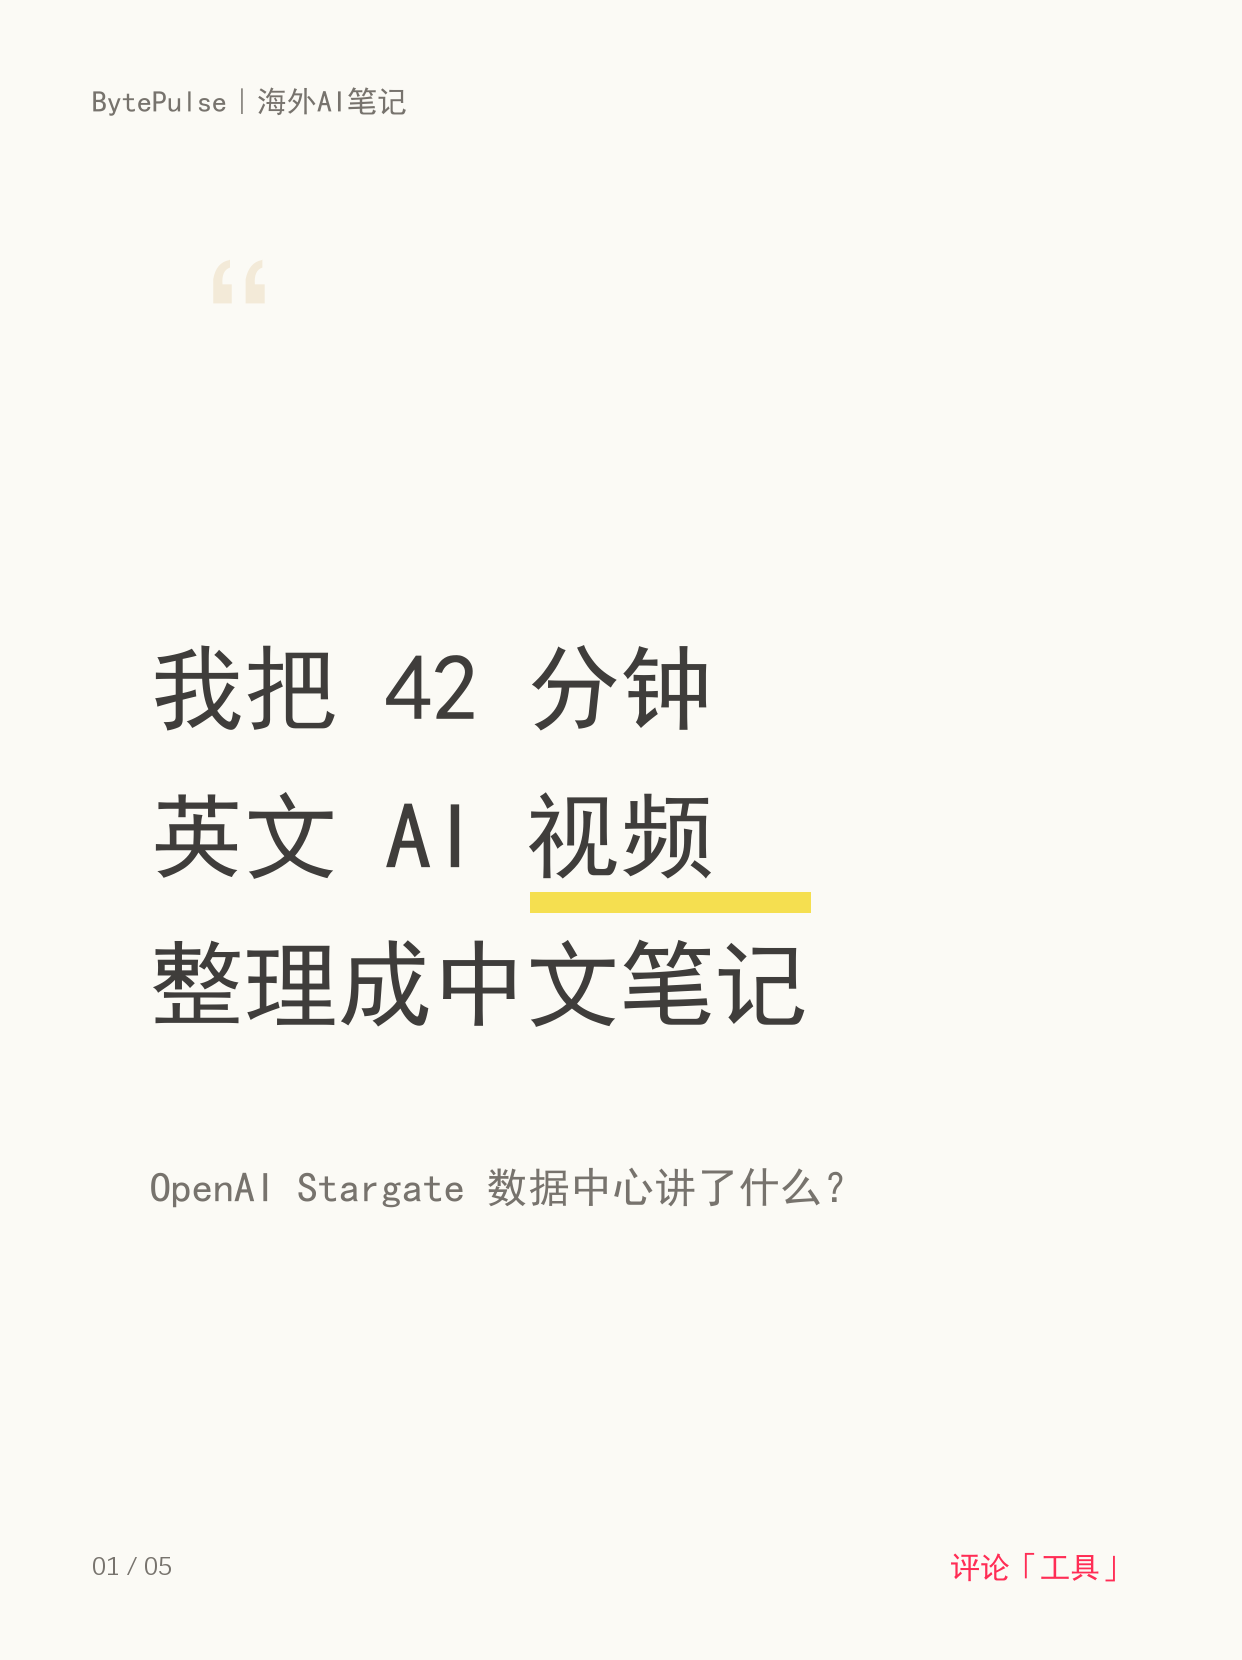
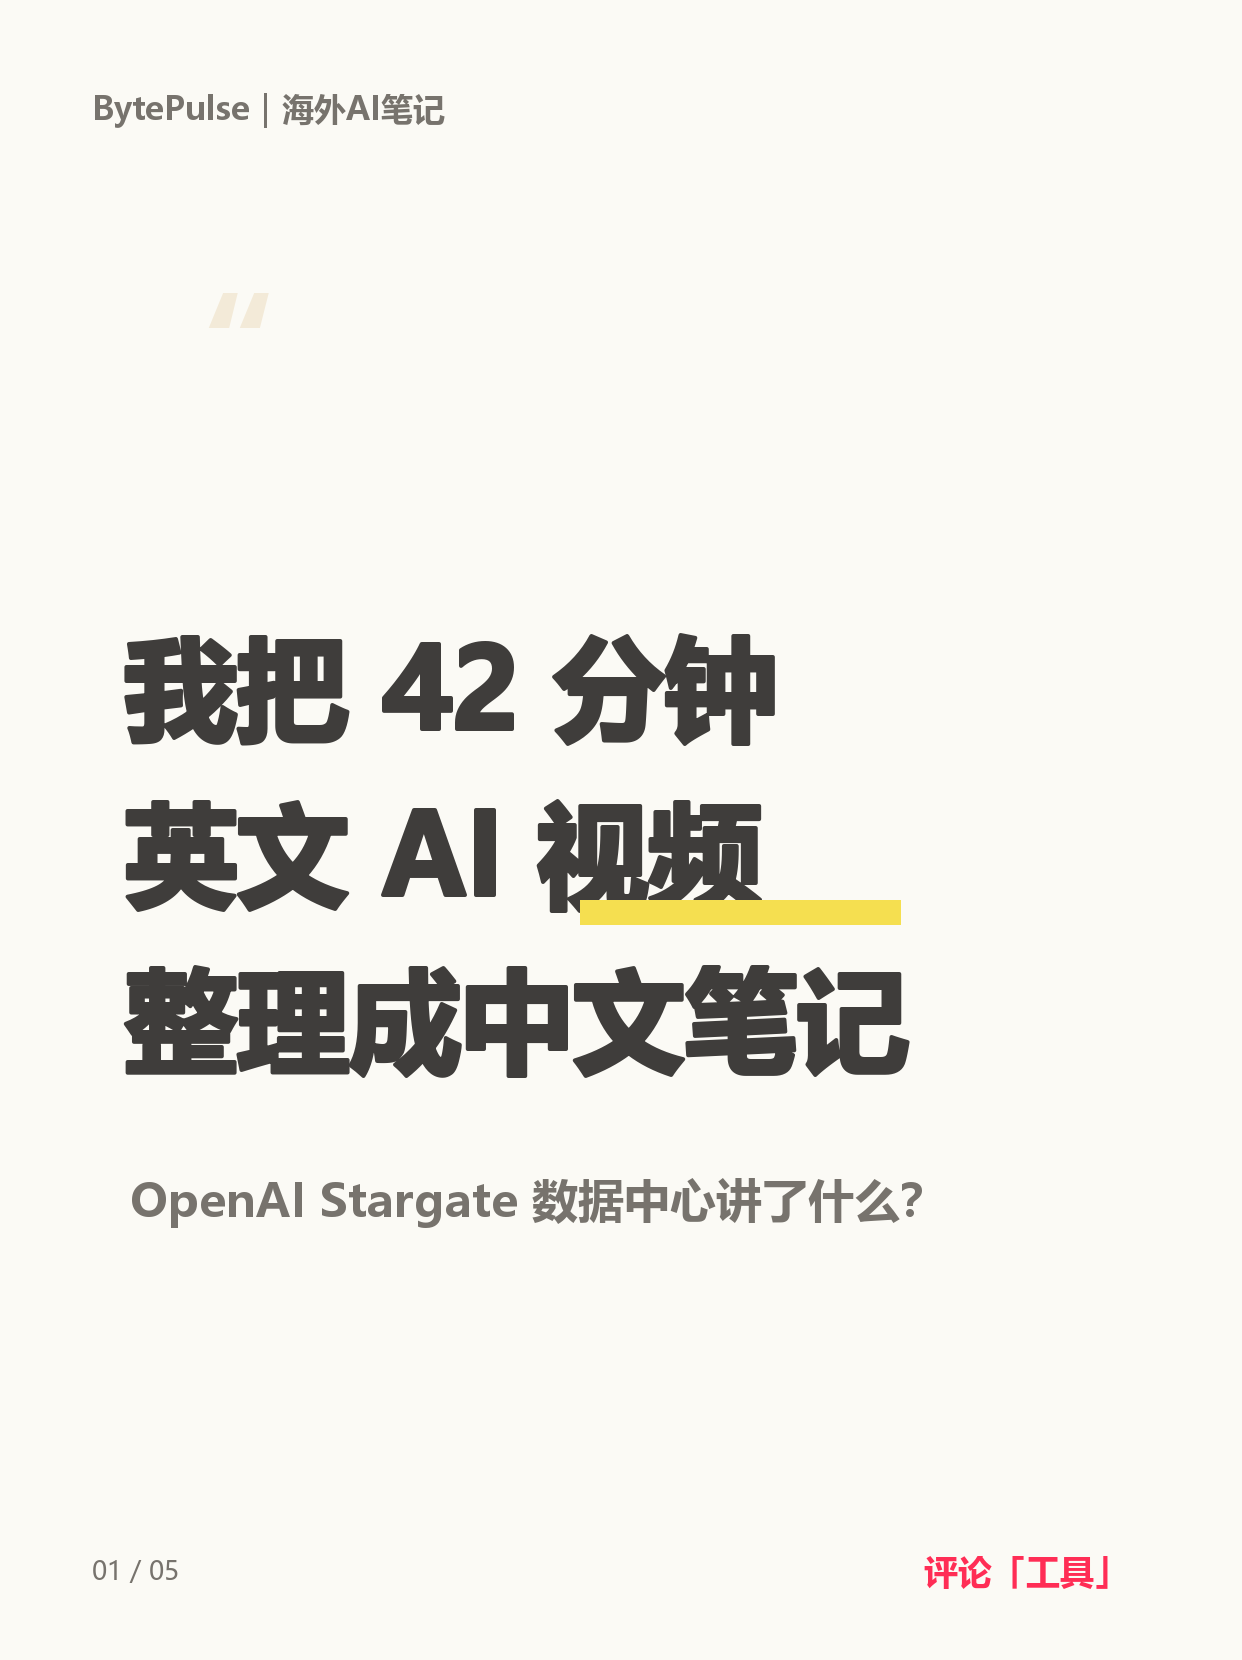
Make Xiaohongshu cards bolder

diff --git a/service_mvp/xiaohongshu/post_001_stargate/generate_clean_cards.py b/service_mvp/xiaohongshu/post_001_stargate/generate_clean_cards.py
@@ -7,6 +7,7 @@ from PIL import Image, ImageDraw, ImageFont
 
 OUT_DIR = Path(__file__).resolve().parent / "clean_cards"
 OUT_DIR_V2 = Path(__file__).resolve().parent / "clean_cards_v2"
+OUT_DIR_READY = Path(__file__).resolve().parent / "ready_to_post"
 W, H = 1242, 1660
 BG = "#fbfaf5"
 INK = "#3f3d3b"
@@ -15,8 +16,8 @@ LIGHT = "#f3ead8"
 YELLOW = "#f5df50"
 RED = "#ff2d55"
 
-FONT_BOLD = "C:/Windows/Fonts/simhei.ttf"
-FONT_REG = "C:/Windows/Fonts/Deng.ttf"
+FONT_BOLD = "C:/Windows/Fonts/msyhbd.ttc"
+FONT_REG = "C:/Windows/Fonts/msyh.ttc"
 
 
 def font(size: int, bold: bool = False) -> ImageFont.FreeTypeFont:
@@ -45,9 +46,9 @@ def wrap_text(draw: ImageDraw.ImageDraw, text: str, fnt: ImageFont.FreeTypeFont,
 
 
 def draw_brand(draw: ImageDraw.ImageDraw, page: str) -> None:
-    draw.text((92, 86), "BytePulse｜海外AI笔记", font=font(30, True), fill=MUTED)
+    draw.text((92, 86), "BytePulse｜海外AI笔记", font=font(32, True), fill=MUTED)
     draw.text((92, H - 108), page, font=font(26), fill=MUTED)
-    draw.text((W - 292, H - 108), "评论「工具」", font=font(30, True), fill=RED)
+    draw.text((W - 318, H - 112), "评论「工具」", font=font(34, True), fill=RED)
 
 
 def draw_quote_mark(draw: ImageDraw.ImageDraw) -> None:
@@ -55,7 +56,18 @@ def draw_quote_mark(draw: ImageDraw.ImageDraw) -> None:
 
 
 def draw_highlight(draw: ImageDraw.ImageDraw, x: int, y: int, width: int) -> None:
-    draw.rectangle((x, y, x + width, y + 20), fill=YELLOW)
+    draw.rectangle((x, y, x + width, y + 24), fill=YELLOW)
+
+
+def draw_heavy(
+    draw: ImageDraw.ImageDraw,
+    xy: tuple[int, int],
+    text: str,
+    fnt: ImageFont.FreeTypeFont,
+    fill: str = INK,
+    stroke: int = 1,
+) -> None:
+    draw.text(xy, text, font=fnt, fill=fill, stroke_width=stroke, stroke_fill=fill)
 
 
 def draw_multiline(
@@ -97,14 +109,14 @@ def make_card_1_v2() -> Image.Image:
     draw = ImageDraw.Draw(im)
     draw_brand(draw, "01 / 05")
     draw_quote_mark(draw)
-    x, y = 150, 640
-    big = font(94, True)
+    x, y = 125, 610
+    big = font(112, True)
     for line in ["我把 42 分钟", "英文 AI 视频", "整理成中文笔记"]:
-        draw.text((x, y), line, font=big, fill=INK)
+        draw_heavy(draw, (x, y), line, big, stroke=2)
         if "AI" in line:
-            draw_highlight(draw, x + 380, y + 104, 280)
-        y += 148
-    draw.text((150, 1165), "OpenAI Stargate 数据中心讲了什么？", font=font(42, True), fill=MUTED)
+            draw_highlight(draw, x + 455, y + 124, 320)
+        y += 166
+    draw.text((130, 1168), "OpenAI Stargate 数据中心讲了什么？", font=font(46, True), fill=MUTED)
     return im
 
 
@@ -139,13 +151,13 @@ def make_card_2_v2() -> Image.Image:
     draw = ImageDraw.Draw(im)
     draw_brand(draw, "02 / 05")
     draw_quote_mark(draw)
-    draw.text((150, 455), "一句话总结", font=font(62, True), fill=INK)
-    draw_highlight(draw, 150, 544, 340)
-    big = font(72, True)
+    draw_heavy(draw, (130, 455), "一句话总结", font(74, True), stroke=1)
+    draw_highlight(draw, 130, 558, 390)
+    big = font(96, True)
     y = 710
-    for line in ["Stargate 不是", "普通 AI 新闻", "而是一场", "物理基建竞赛"]:
-        draw.text((150, y), line, font=big, fill=INK)
-        y += 112
+    for line in ["Stargate不是", "普通AI新闻", "而是一场", "物理基建竞赛"]:
+        draw_heavy(draw, (130, y), line, big, stroke=2)
+        y += 132
     return im
 
 
@@ -171,14 +183,14 @@ def make_card_3_v2() -> Image.Image:
     im = Image.new("RGB", (W, H), BG)
     draw = ImageDraw.Draw(im)
     draw_brand(draw, "03 / 05")
-    draw.text((150, 355), "是否值得看？", font=font(70, True), fill=INK)
-    draw.text((150, 535), "4 / 5", font=font(150, True), fill=INK)
-    draw_highlight(draw, 155, 695, 340)
-    body = font(58, True)
-    y = 900
-    for line in ["值得。它讲清了", "AI 背后的真实成本：", "算力、电力、冷却、", "土地和供应链。"]:
-        draw.text((150, y), line, font=body, fill=INK)
-        y += 92
+    draw_heavy(draw, (130, 340), "是否值得看？", font(84, True), stroke=1)
+    draw_heavy(draw, (130, 525), "4 / 5", font(178, True), stroke=2)
+    draw_highlight(draw, 135, 718, 390)
+    body = font(70, True)
+    y = 920
+    for line in ["值得。它讲清了", "AI背后的真实成本：", "算力、电力、冷却", "土地和供应链"]:
+        draw_heavy(draw, (130, y), line, body, stroke=1)
+        y += 104
     return im
 
 
@@ -207,9 +219,9 @@ def make_card_4_v2() -> Image.Image:
     im = Image.new("RGB", (W, H), BG)
     draw = ImageDraw.Draw(im)
     draw_brand(draw, "04 / 05")
-    draw.text((150, 250), "我整理出的", font=font(62, True), fill=INK)
-    draw.text((150, 340), "4 个核心观点", font=font(86, True), fill=INK)
-    draw_highlight(draw, 485, 450, 500)
+    draw_heavy(draw, (130, 245), "我整理出的", font(74, True), stroke=1)
+    draw_heavy(draw, (130, 345), "4 个核心观点", font(100, True), stroke=2)
+    draw_highlight(draw, 492, 474, 520)
     items = [
         "软件瓶颈变成物理瓶颈",
         "AI 数据中心开始逐电而居",
@@ -218,9 +230,9 @@ def make_card_4_v2() -> Image.Image:
     ]
     y = 650
     for idx, item in enumerate(items, 1):
-        draw.text((150, y), f"{idx}.", font=font(62, True), fill=RED)
-        y = draw_multiline(draw, item, (240, y - 6), font(58, True), max_width=790, line_gap=18)
-        y += 58
+        draw_heavy(draw, (130, y), f"{idx}.", font(70, True), fill=RED, stroke=1)
+        y = draw_multiline(draw, item, (230, y - 4), font(64, True), max_width=850, line_gap=16)
+        y += 54
     return im
 
 
@@ -247,33 +259,29 @@ def make_card_5_v2() -> Image.Image:
     im = Image.new("RGB", (W, H), BG)
     draw = ImageDraw.Draw(im)
     draw_brand(draw, "05 / 05")
-    draw.text((150, 330), "你发 YouTube 链接", font=font(66, True), fill=INK)
-    draw.text((150, 430), "我整理成中文笔记", font=font(80, True), fill=INK)
-    draw_highlight(draw, 150, 530, 610)
+    draw_heavy(draw, (130, 315), "你发YouTube链接", font(76, True), stroke=1)
+    draw_heavy(draw, (130, 430), "我整理成中文笔记", font(94, True), stroke=2)
+    draw_highlight(draw, 130, 552, 700)
     items = ["是否值得看", "核心观点", "详细笔记", "术语解释", "行动清单", "Markdown 文件"]
-    y = 705
+    y = 715
     for index, item in enumerate(items):
-        col = 150 if index % 2 == 0 else 620
-        row_y = y + (index // 2) * 115
-        draw.ellipse((col, row_y + 20, col + 22, row_y + 42), fill=RED)
-        draw.text((col + 48, row_y), item, font=font(44, True), fill=INK)
-    draw.rounded_rectangle((150, 1200, 660, 1318), radius=12, fill=RED)
-    draw.text((205, 1230), "评论「工具」", font=font(52, True), fill="white")
+        col = 130 if index % 2 == 0 else 630
+        row_y = y + (index // 2) * 128
+        draw.ellipse((col, row_y + 24, col + 26, row_y + 50), fill=RED)
+        draw_heavy(draw, (col + 54, row_y), item, font(50, True), stroke=1)
+    draw.rounded_rectangle((130, 1220, 685, 1345), radius=12, fill=RED)
+    draw_heavy(draw, (190, 1250), "评论「工具」", font(60, True), fill="white", stroke=1)
     return im
 
 
 def main() -> None:
-    OUT_DIR.mkdir(parents=True, exist_ok=True)
-    cards = [make_card_1(), make_card_2(), make_card_3(), make_card_4(), make_card_5()]
-    for index, image in enumerate(cards, 1):
-        image.save(OUT_DIR / f"post_001_card_{index}.png", quality=95)
-        print(f"saved: {OUT_DIR / f'post_001_card_{index}.png'}")
-
-    OUT_DIR_V2.mkdir(parents=True, exist_ok=True)
-    cards_v2 = [make_card_1_v2(), make_card_2_v2(), make_card_3_v2(), make_card_4_v2(), make_card_5_v2()]
-    for index, image in enumerate(cards_v2, 1):
-        image.save(OUT_DIR_V2 / f"post_001_card_{index}.png", quality=95)
-        print(f"saved: {OUT_DIR_V2 / f'post_001_card_{index}.png'}")
+    output_dirs = [OUT_DIR, OUT_DIR_V2, OUT_DIR_READY]
+    cards = [make_card_1_v2(), make_card_2_v2(), make_card_3_v2(), make_card_4_v2(), make_card_5_v2()]
+    for output_dir in output_dirs:
+        output_dir.mkdir(parents=True, exist_ok=True)
+        for index, image in enumerate(cards, 1):
+            image.save(output_dir / f"post_001_card_{index}.png", quality=95)
+            print(f"saved: {output_dir / f'post_001_card_{index}.png'}")
 
 
 if __name__ == "__main__":
